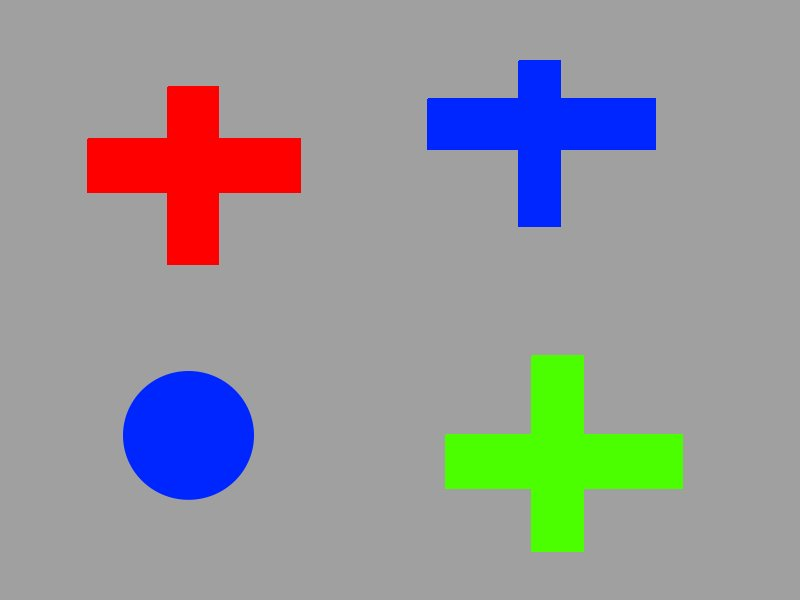
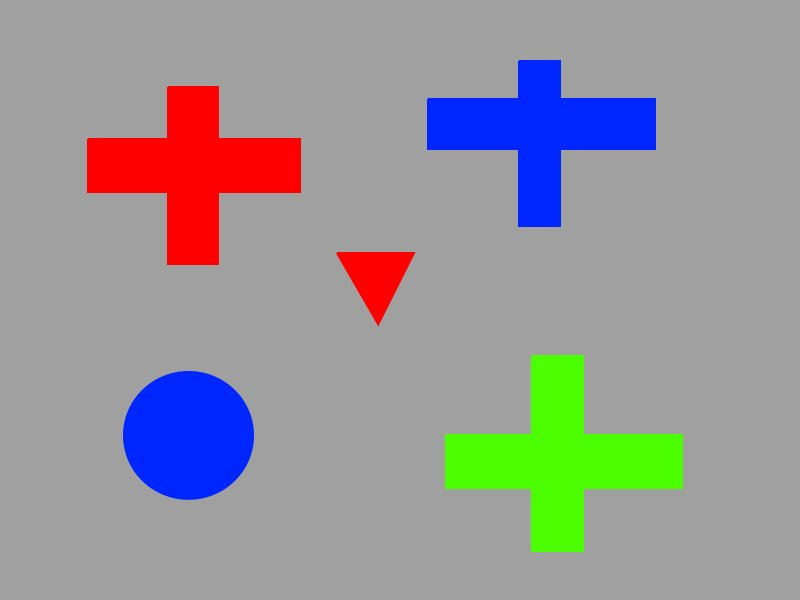
Fixed triangle detection and HSV

Changed region(s): [[0.4062, 0.42, 0.5312, 0.54]]

diff --git a/src/ShapeDetector.cpp b/src/ShapeDetector.cpp
@@ -50,7 +50,8 @@ bool ShapeDetector::boundingAreaCross(std::vector<cv::Point> &points) {
 bool ShapeDetector::boundingAreaTriangle(std::vector<cv::Point> &points) {
     cv::Rect boundingRect = cv::boundingRect(points);
     float area = contourArea(points) / (boundingRect.width * boundingRect.height);
-    if (area >= .41 && area <= .45)
+
+    if (area >= .41 && area <= .5)
         return true;
     return false;
 }
@@ -65,6 +66,7 @@ bool ShapeDetector::angleTestCross(std::vector<cv::Point> &points) {
     float var = findVarience(angles);
 
     if (chi < 20 && var < 25) {
+
         return true;
     }
     return false;
@@ -81,6 +83,7 @@ bool ShapeDetector::angleTestTriangle(std::vector<cv::Point> &points) {
     float var = findVarience(angles);
     //            std::cout << "result: " << chi << std::endl;
     //            std::cout << "result: " << chi << " Mean: " << mean << " Var: " << var << std::endl;
+
     if (chi < 20 && var < 25) {
         return true;
     }

diff --git a/src/DebugWindow.cpp b/src/DebugWindow.cpp
@@ -38,11 +38,7 @@ void DebugWindow::UpdateGreen(Mat frame) {
 void DebugWindow::UpdateResults(navigator_shoot_vision::Symbols symbols) {
     for (int i = 0; i < symbols.list.size(); i++) {
         cv::Rect p = cv::Rect(symbols.list[i].CenterX-50, symbols.list[i].CenterY-50, 100, 100);
-        cv::rectangle(color_frame, p.tl(), p.br(), cv::Scalar(100, 100, 100));
-        if (symbols.list[i].Shape == navigator_shoot_vision::Symbol::CROSS)
-            std::cout << "cross " << p.x << ", " << p.y << " " <<symbols.list[i].Color<<std::endl;
-        if (symbols.list[i].Shape == navigator_shoot_vision::Symbol::TRIANGLE)
-            std::cout << "triangle " << p.x << ", " << p.y << std::endl;
+        cv::rectangle(color_frame, p.tl(), p.br(), cv::Scalar(100, 100, 100), 2);
     }
     imshow("color", color_frame);
     // results = rs;

diff --git a/src/FrameProc.cpp b/src/FrameProc.cpp
@@ -16,7 +16,7 @@ FrameProc::FrameProc()
 //	blue = ColorThresh{Scalar(125,15,15),Scalar(255,150,150)};
 //	green = ColorThresh{Scalar(15, 50, 15),Scalar(150,255,150)};
 	red = ColorThresh{Scalar(0, 100, 100), Scalar(9, 255, 255)};
-	red2 = ColorThresh{Scalar(160, 100, 1000), Scalar(180, 255, 255)};
+	red2 = ColorThresh{Scalar(160, 100, 100), Scalar(180, 255, 255)};
 	blue = ColorThresh{Scalar(70,100,100),Scalar(130,255,255)};
 	green = ColorThresh{Scalar(35, 100, 100),Scalar(69,255,255)};
 	rgb_frame = Mat();
@@ -35,6 +35,8 @@ void FrameProc::GetFrame()
 //		std::cerr << "Could not read frame" << std::endl;
 //	}
 rgb_frame=imread("/home/daniel/catkin_ws/src/navigator_shoot_vision/crossred.jpg", CV_LOAD_IMAGE_COLOR);
+
+
 
 
 }

diff --git a/src/ShapeFind.cpp b/src/ShapeFind.cpp
@@ -76,7 +76,7 @@ void ShapeFind::GetSymbols(Mat frame, navigator_shoot_vision::Symbols *symbols) 
 //            hold.Shape = navigator_shoot_vision::Symbol::CROSS;
 //            symbols->list.push_back(hold);
 //        } 
-        else if (shapes[i].size() == 3 && ShapeDetector::angleTestCross(shapes[i]) && ShapeDetector::boundingAreaTriangle(shapes[i])) {
+        else if (shapes[i].size() == 3 && ShapeDetector::angleTestTriangle(shapes[i]) && ShapeDetector::boundingAreaTriangle(shapes[i])) {
             navigator_shoot_vision::Symbol hold;
             Point center = findCenter(shapes[i]);
             hold.CenterX = center.x;
